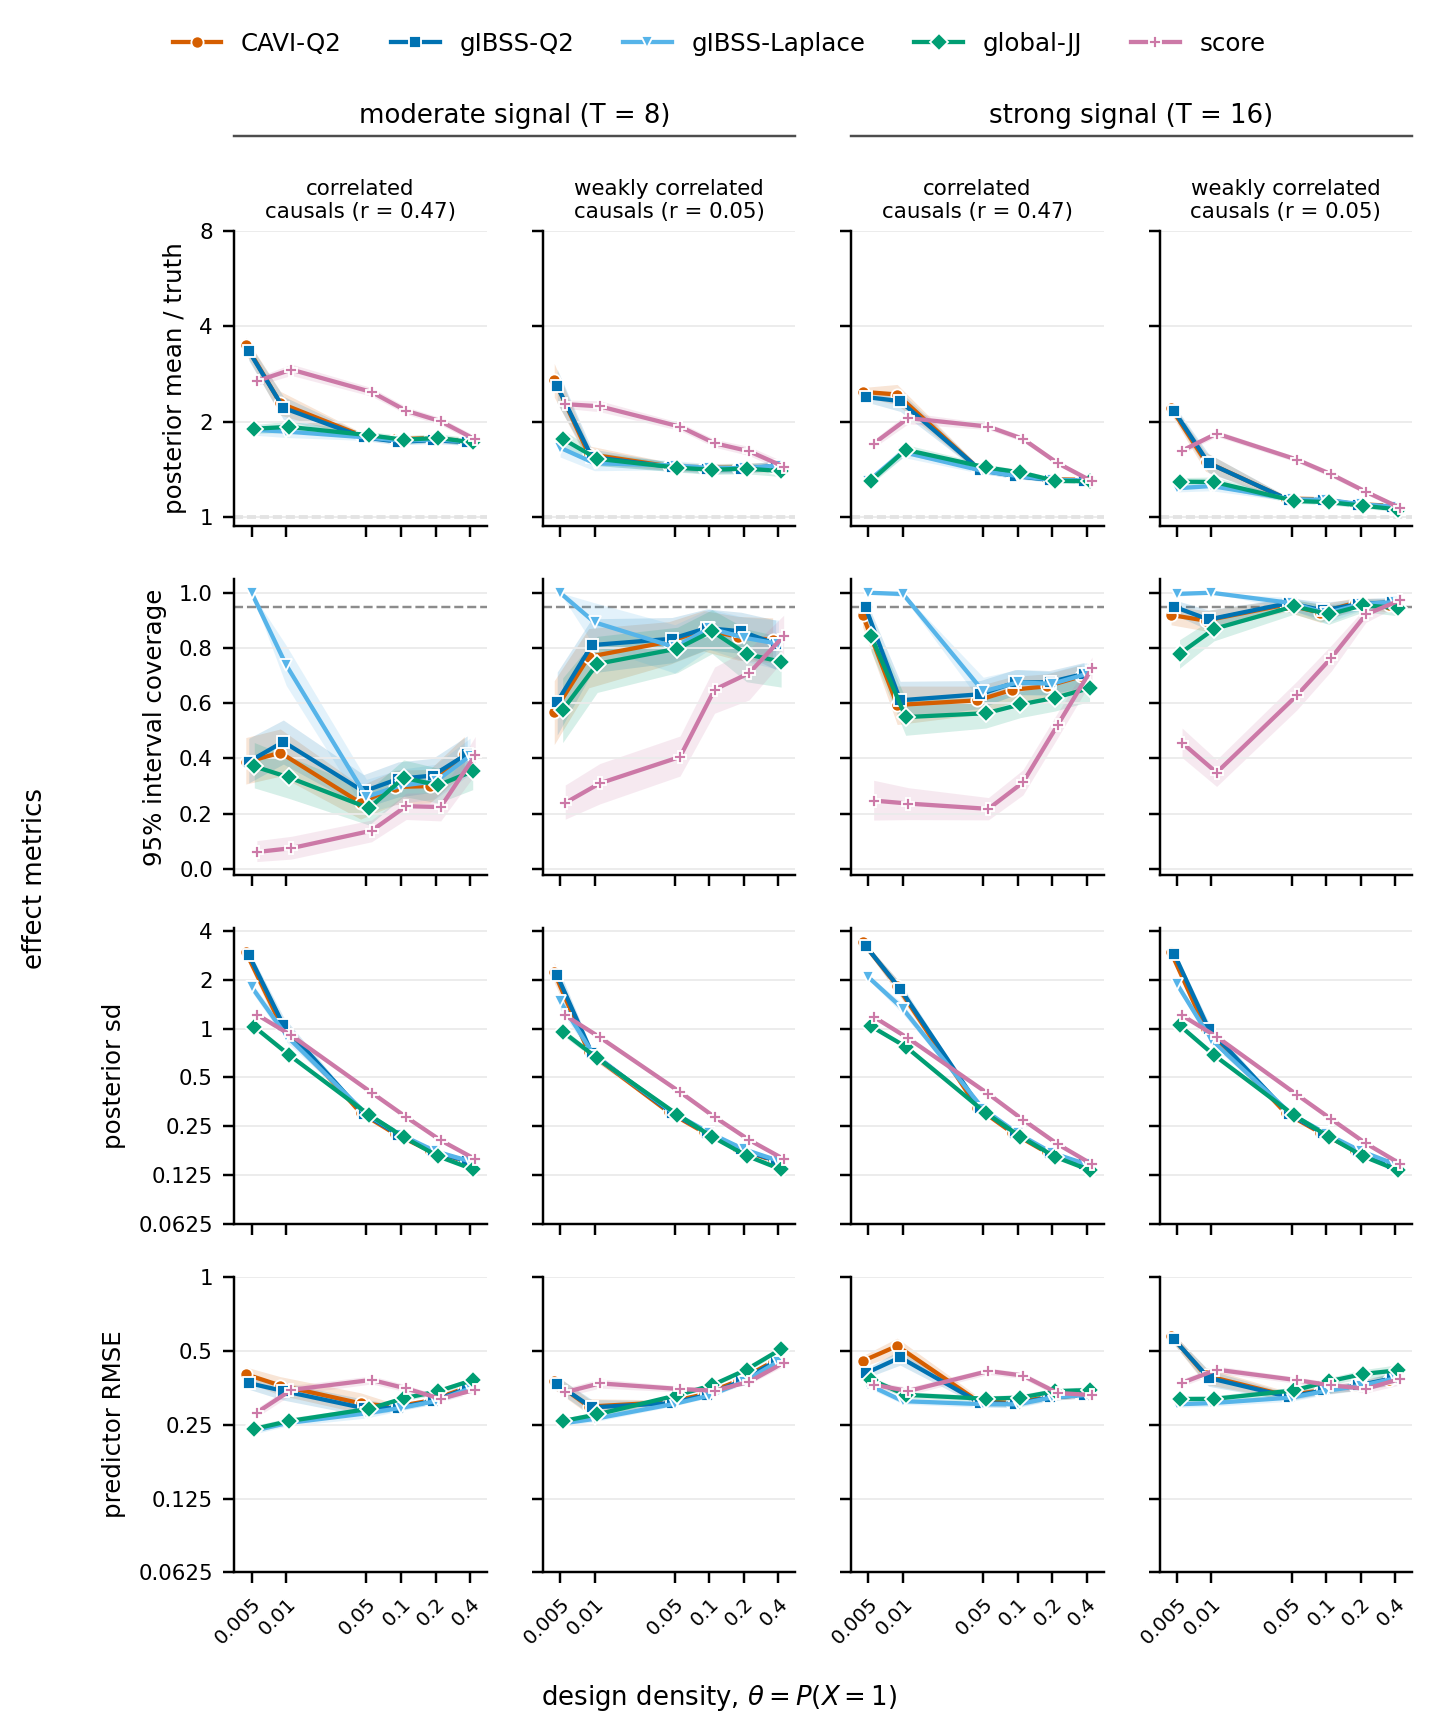
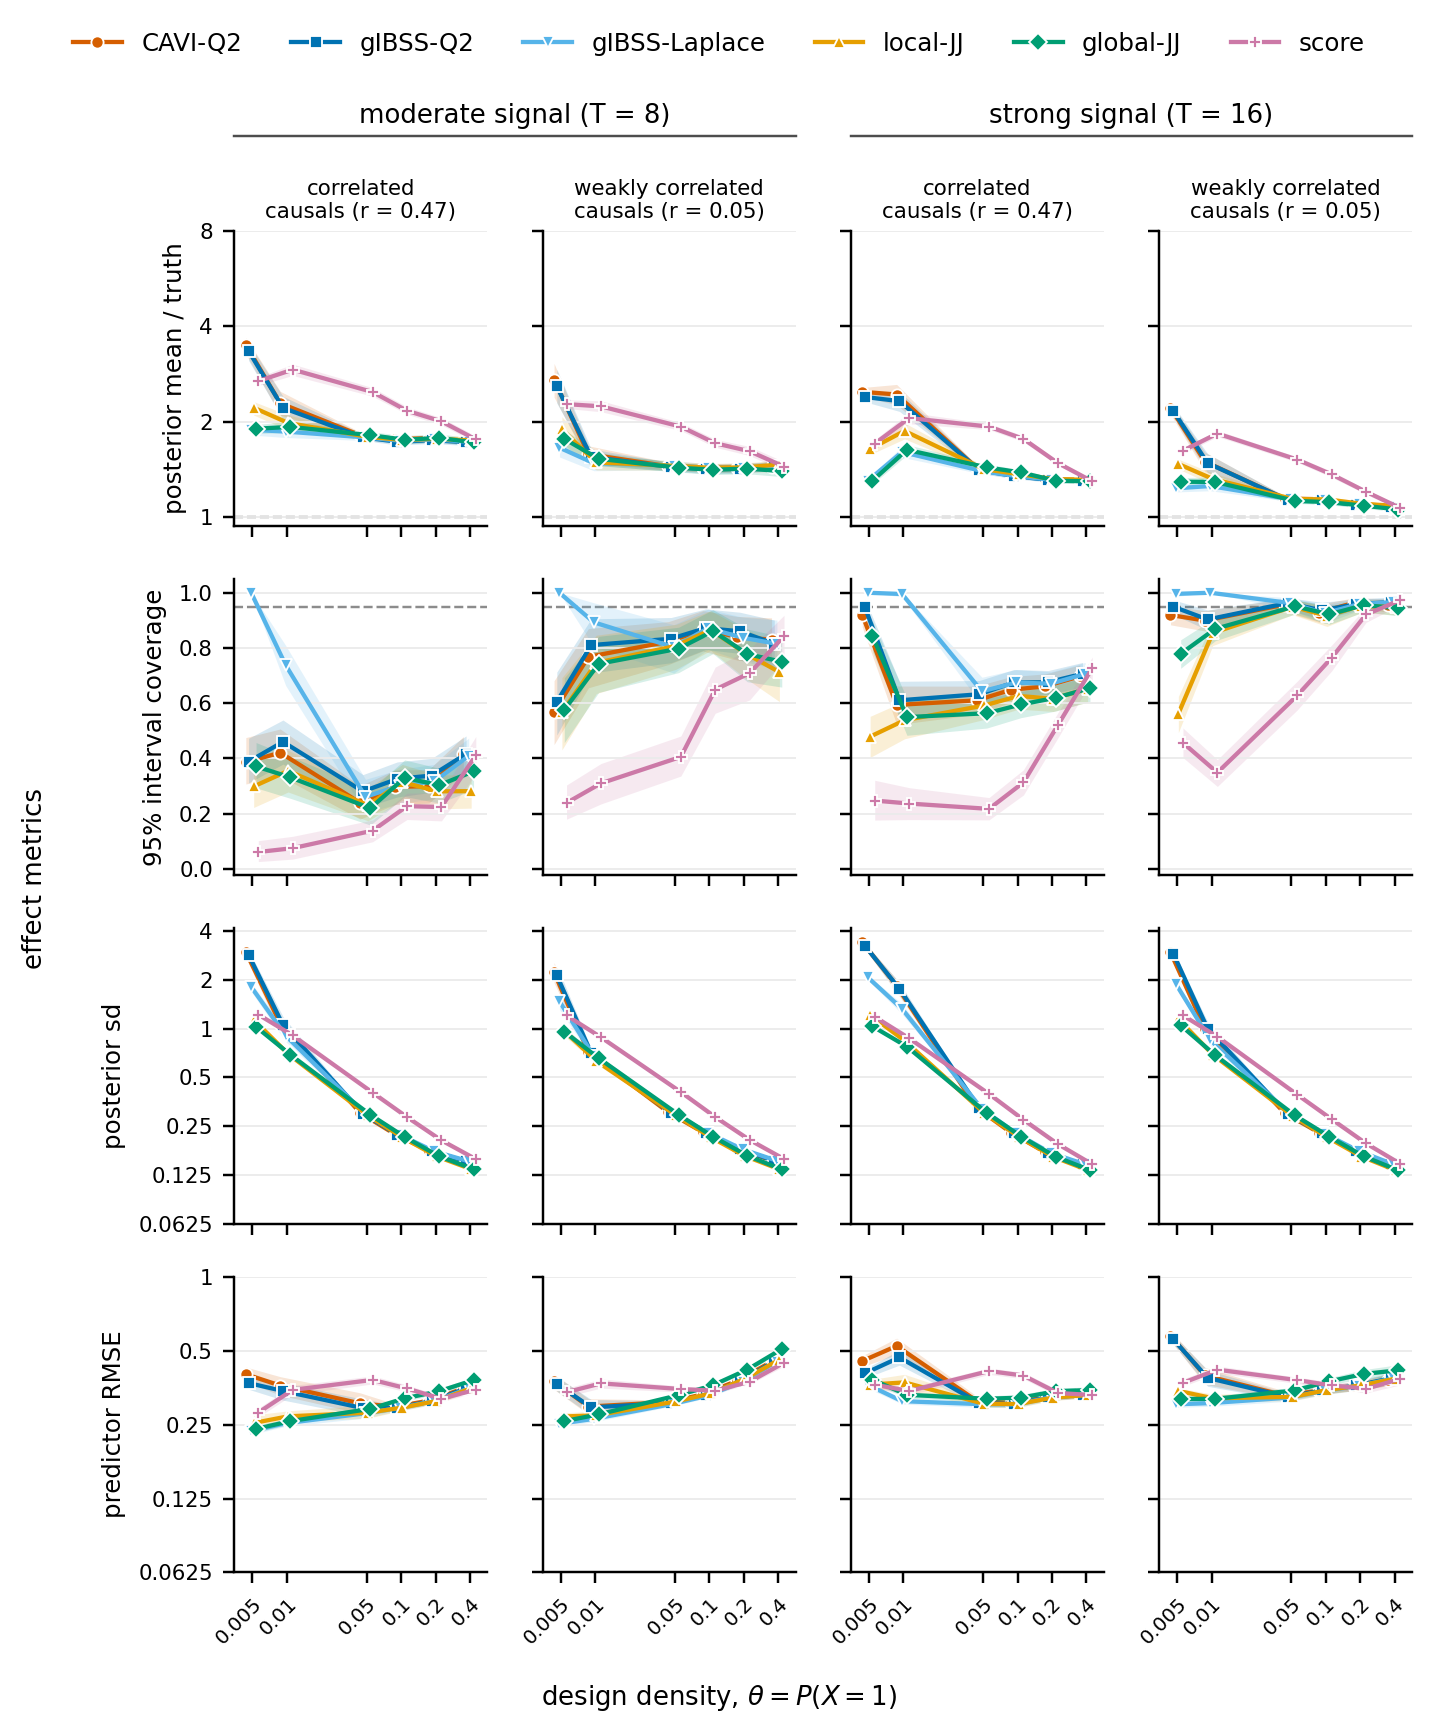
fix(twogroup): ELBO table pairs arms on the replicate, not on nullable cell axes
The 023 Gaussian design has m = None, so joining on (T, gap, m, ...) dropped every row and
the ELBO table came out empty. Pair on (batch_hash, replicate), which identifies the data.
Re-render analogs and full_grid with the local-JJ arm.

diff --git a/twogroup_experiments/analysis/logistic_laplace_simulations/cs_tables.py b/twogroup_experiments/analysis/logistic_laplace_simulations/cs_tables.py
@@ -84,10 +84,13 @@ def elbo_table(d: pl.DataFrame, ref: str = "cavi", n_boot: int = 2000, seed: int
     rng = np.random.default_rng(seed)
     sig = d.filter(~pl.col("null"))
     arms = [m for m in R.METHODS if m != ref and m in sig["method"].unique().to_list()]
-    key = ["T", "gap", "m", "batch_hash", "replicate"]
-    sig = sig.with_columns(pl.col("gap").fill_null(-1))   # nulls don't join; single-causal cells
+    # pair on the replicate itself: (batch_hash, replicate) identifies the simulated data, and
+    # the cell axes can be null (gap on single-causal cells, m on the Gaussian design), which
+    # would silently drop every row from the join
+    key = ["batch_hash", "replicate"]
+    sig = sig.with_columns(pl.col("gap").fill_null(-1))
     refd = sig.filter(pl.col("method") == ref).select(*key, pl.col("q2_elbo").alias("ref_elbo"))
-    j = (sig.filter(pl.col("method") != ref).join(refd, on=key, how="inner")
+    j = (sig.filter(pl.col("method") != ref).join(refd, on=key, how="inner", validate="m:1")
             .with_columns(pl.when(pl.col("gap") < 0).then(None).otherwise(pl.col("gap")).alias("gap"))
             .with_columns((pl.col("q2_elbo") - pl.col("ref_elbo")).alias("d")))
     rows = list(rows)
